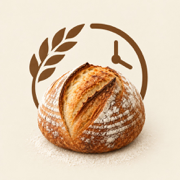
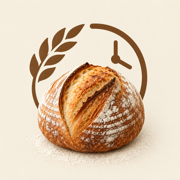
앱 아이콘을 1024×1024 원본으로 다시 만들기 (키우지 않음)
- iOS AppIcon.png와 웹 아이콘 4종(180·192·512·32)을 사용자 원본 1024×1024 PNG에서 다시 — 앞 커밋은 886×886을 키운 것
- og.png는 옛 아이콘이 있던 원래 미리보기를 바탕으로 새 아이콘을 다시 합성(옅은 그림자 그대로)
- sw.js 셸 캐시 v3 → v4: v3로 받은 키운 아이콘 대신 이 아이콘을 받게

diff --git a/public/sw.js b/public/sw.js
@@ -8,7 +8,7 @@
  *   다른 출처(jsDelivr의 인식 엔진·언어 데이터)는 건드리지 않는다.
  * 동작을 바꾸면 캐시 이름의 버전을 올릴 것.
  */
-const SHELL_CACHE = 'doughmetry-shell-v3';
+const SHELL_CACHE = 'doughmetry-shell-v4';
 const FONT_CACHE = 'doughmetry-fonts-v2';
 const FONT_LIMIT = 150;
 
